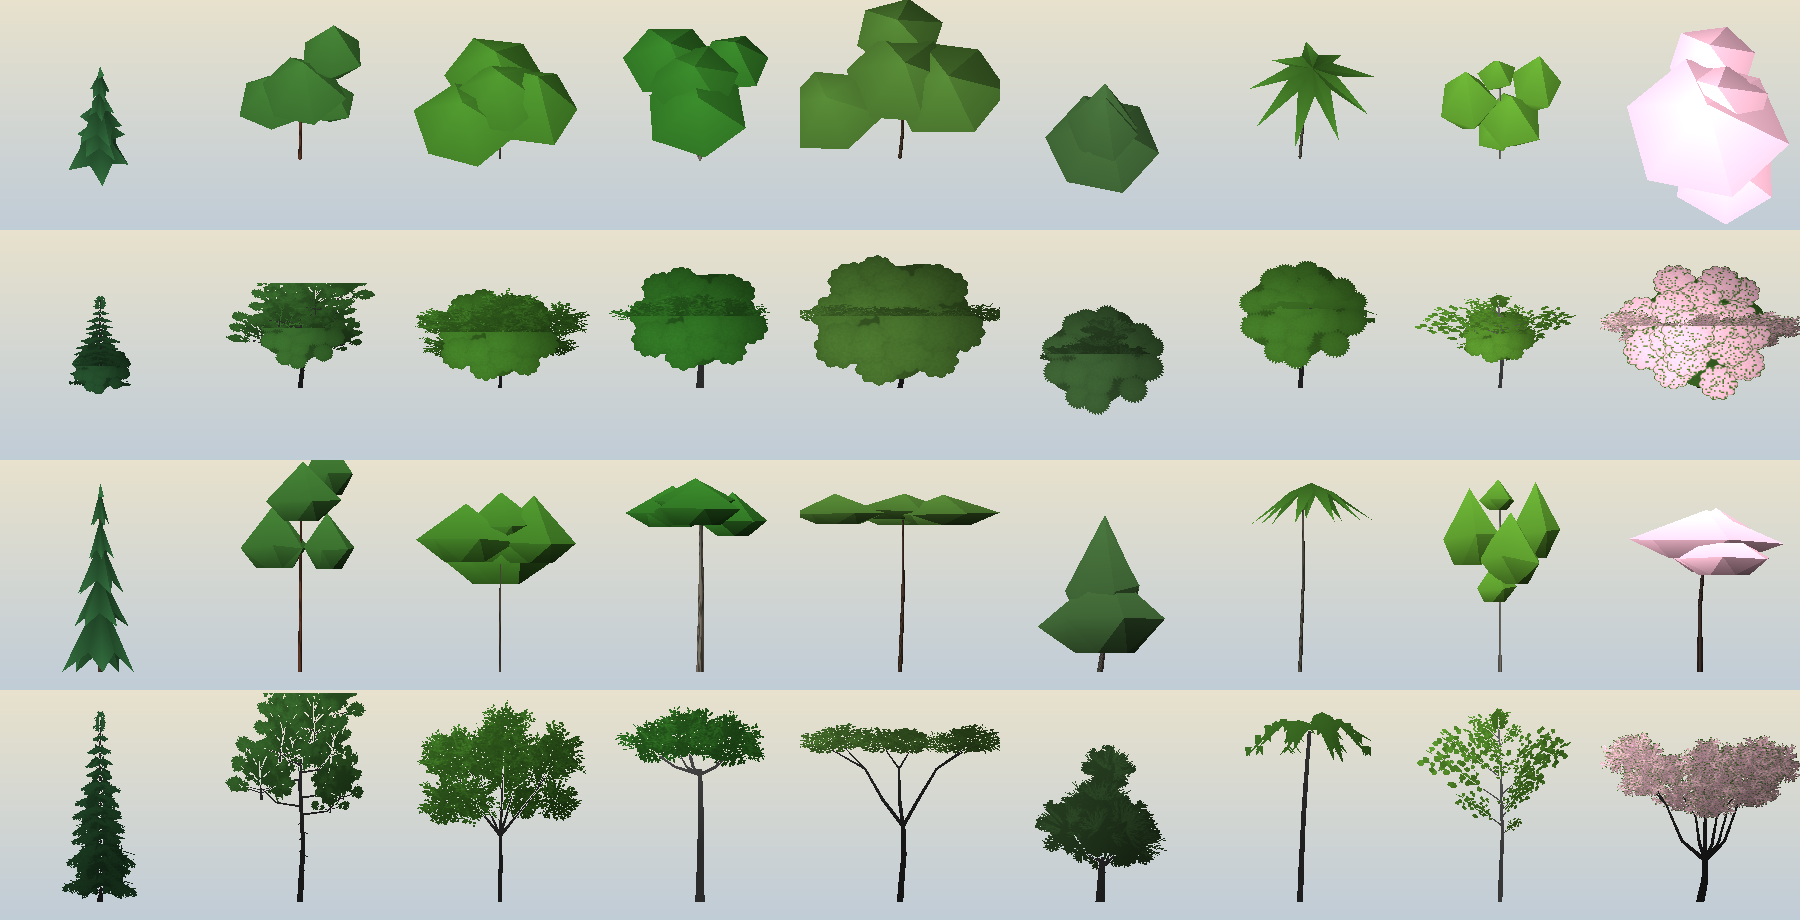
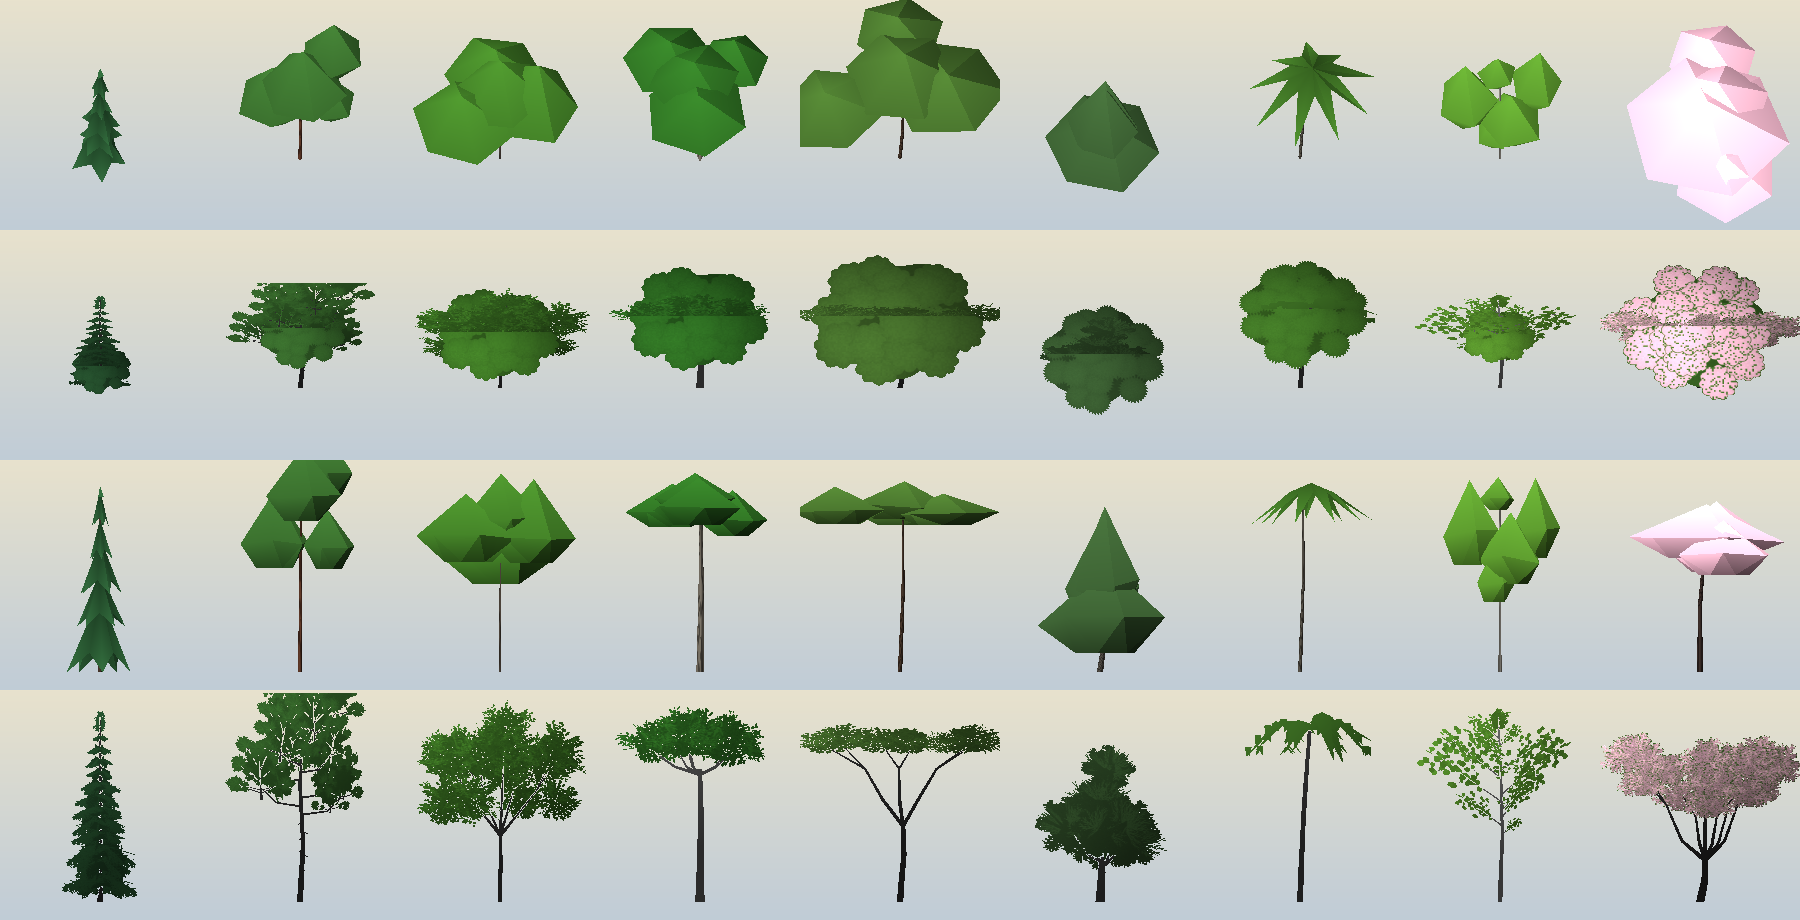
Tree solids: a check that each is the same tree as its middle mesh (tops and reach mended by it); the benchmark's row for the old way from above
Claude-Session: https://claude.ai/code/session_01R5Bri3Vc6gREhGM2yuwUwB

diff --git a/src/life/treeGeometry.js b/src/life/treeGeometry.js
@@ -266,11 +266,11 @@ function solidOf(near, arch, R) {
     const top = stem(merged.length ? merged[merged.length - 1].hi : 0.9);
     merged.forEach((t, k) => {
       const n = 10, turn = R() * TAU, ax = trunkAt((t.hi + t.lo) / 2, top), apex = [ax[0], t.hi + 0.02, ax[2]], c = [ax[0], t.lo - t.r * 0.5, ax[2]];
-      const ring = []; for (let j = 0; j < n; j++) { const a = turn + j / n * TAU, out = j % 2 ? 1 : 0.5 + 0.12 * R(), rr = t.r * 0.9 * out * (j % 2 ? 0.85 + 0.25 * R() : 1); ring.push([ax[0] + Math.cos(a) * rr, t.lo + (t.hi - t.lo) * (j % 2 ? 0.05 : 0.3), ax[2] + Math.sin(a) * rr]); }
+      const ring = []; for (let j = 0; j < n; j++) { const a = turn + j / n * TAU, out = j % 2 ? 1 : 0.5 + 0.12 * R(), rr = t.r * 0.82 * out * (j % 2 ? 0.85 + 0.2 * R() : 1); ring.push([ax[0] + Math.cos(a) * rr, t.lo + (t.hi - t.lo) * (j % 2 ? 0.05 : 0.3), ax[2] + Math.sin(a) * rr]); }
       for (let j = 0; j < n; j++) face(apex, ring[(j + 1) % n], ring[j], c, apex, [0.15, (j + 1) % 2 ? 1 : 0.55, j % 2 ? 1 : 0.55]);
     });
     // (the spire)
-    { const y = merged.length ? merged[merged.length - 1].hi : 0.9, a = [top[0], Math.min(1, y + 0.07), top[2]], c = [top[0], y - 0.05, top[2]], ring = [0, 1, 2].map((j) => [top[0] + Math.cos(j * 2.094) * 0.02, y - 0.01, top[2] + Math.sin(j * 2.094) * 0.02]); for (let j = 0; j < 3; j++) face(a, ring[(j + 1) % 3], ring[j], c, c); }
+    { const y = merged.length ? merged[merged.length - 1].hi : 0.9, a = [top[0], Math.min(1, y + 0.05), top[2]], c = [top[0], y - 0.05, top[2]], ring = [0, 1, 2].map((j) => [top[0] + Math.cos(j * 2.094) * 0.02, y - 0.01, top[2] + Math.sin(j * 2.094) * 0.02]); for (let j = 0; j < 3; j++) face(a, ring[(j + 1) % 3], ring[j], c, c); }
     return done();
   }
   const P = fol.flatMap((t) => t.p);
@@ -295,11 +295,11 @@ function solidOf(near, arch, R) {
   for (const b of balls) { let bi = 0, bd = 1e9; seeds.forEach((q, i) => { const d = Math.hypot(b.c[0] - q.c[0], (b.c[1] - q.c[1]) * 1.5, b.c[2] - q.c[2]); if (d < bd) { bd = d; bi = i; } }); groups[bi].push(...b.Q); }
   const lumps = groups.filter((Q) => Q.length).map((Q) => {
     const c = [0, 1, 2].map((i) => Q.reduce((a, p) => a + p[i], 0) / Q.length);
-    return { c, r: pct(Q.map((p) => Math.hypot(p[0] - c[0], p[2] - c[2])), 0.85) * SOLID_WIDE[arch], hi: pct(Q.map((p) => p[1]), 0.92), lo: arch === 5 ? pct(Q.map((p) => p[1]), 0.1) * 0.4 : pct(Q.map((p) => p[1]), 0.12) };
+    return { c, r: pct(Q.map((p) => Math.hypot(p[0] - c[0], p[2] - c[2])), 0.85) * SOLID_WIDE[arch], hi: pct(Q.map((p) => p[1]), 0.97), lo: arch === 5 ? pct(Q.map((p) => p[1]), 0.1) * 0.4 : pct(Q.map((p) => p[1]), 0.12) };
   });
   const crown = [0, 1, 2].map((i) => P.reduce((a, p) => a + p[i], 0) / P.length);
   // (the middle of a broad crown: a lump of its own, a little higher than the ones round it)
-  if (SOLID_CORE[arch]) { const rAll = pct(P.map((p) => Math.hypot(p[0] - crown[0], p[2] - crown[2])), 0.8); lumps.push({ c: crown, r: rAll * 0.62, hi: pct(P.map((p) => p[1]), 0.97), lo: pct(P.map((p) => p[1]), arch === 5 ? 0.05 : 0.3) }); }
+  if (SOLID_CORE[arch]) { const rAll = pct(P.map((p) => Math.hypot(p[0] - crown[0], p[2] - crown[2])), 0.8); lumps.push({ c: crown, r: rAll * 0.62, hi: pct(P.map((p) => p[1]), 0.995), lo: pct(P.map((p) => p[1]), arch === 5 ? 0.05 : 0.3) }); }
   stem(Math.max(...lumps.map((l) => l.c[1])) * (arch === 5 ? 0.5 : 0.96));
   for (const l of lumps) {
     const n = arch === 7 ? 5 : 6, turn = R() * TAU, h = l.hi - l.lo, c = [l.c[0] * 0.7 + crown[0] * 0.3, l.lo - h * 0.2, l.c[2] * 0.7 + crown[2] * 0.3];

diff --git a/src/perf/benchmark.js b/src/perf/benchmark.js
@@ -359,6 +359,8 @@ export const PARTS_OUT = [
   // (the ground's two cuts that a switch can put back, docs/briefs/ground-cost-report.md: what the old way adds)
   { id: 'ground-sky-pixel', label: "the sky's light on the ground at every pixel instead of at its vertices (what it adds)", adds: true, set: (app, out) => { app.terrain.shared.uGroundOld.value.x = out ? 1 : 0; } },
   { id: 'ground-both-maps', label: "a patch's own maps read wherever its parent's are (what it adds)", adds: true, set: (app, out) => { app.terrain.shared.uGroundOld.value.y = out ? 1 : 0; } },
+  // (trees looked down on as their pictures and a plate, as before the solid makes: what the old way adds from the air)
+  { id: 'tree-solid-off', label: 'trees looked down on as cut-out pictures instead of solid crowns (what it adds)', adds: true, has: (app) => !!app.trees?.def, set: (app, out) => { const v = out ? 0 : 1; app.trees.shared.uSolid.value = v; app.trees.solidOn = !out; app.farForest.shared.uSolid.value = v; app.farForest.solidOn = !out; } },
   // (last: what is left with nothing drawn at all)
   // (and every pass the sky makes into targets of its own: with the scenes alone hidden those all ran)
   { id: 'everything', label: 'everything', set: (app, out) => { app.nearScene.visible = app.farScene.visible = app.heroScene.visible = app.dustScene.visible = !out; if (app.sky?.hasPart('sky-all')) app.sky.partOut('sky-all', out); } },
